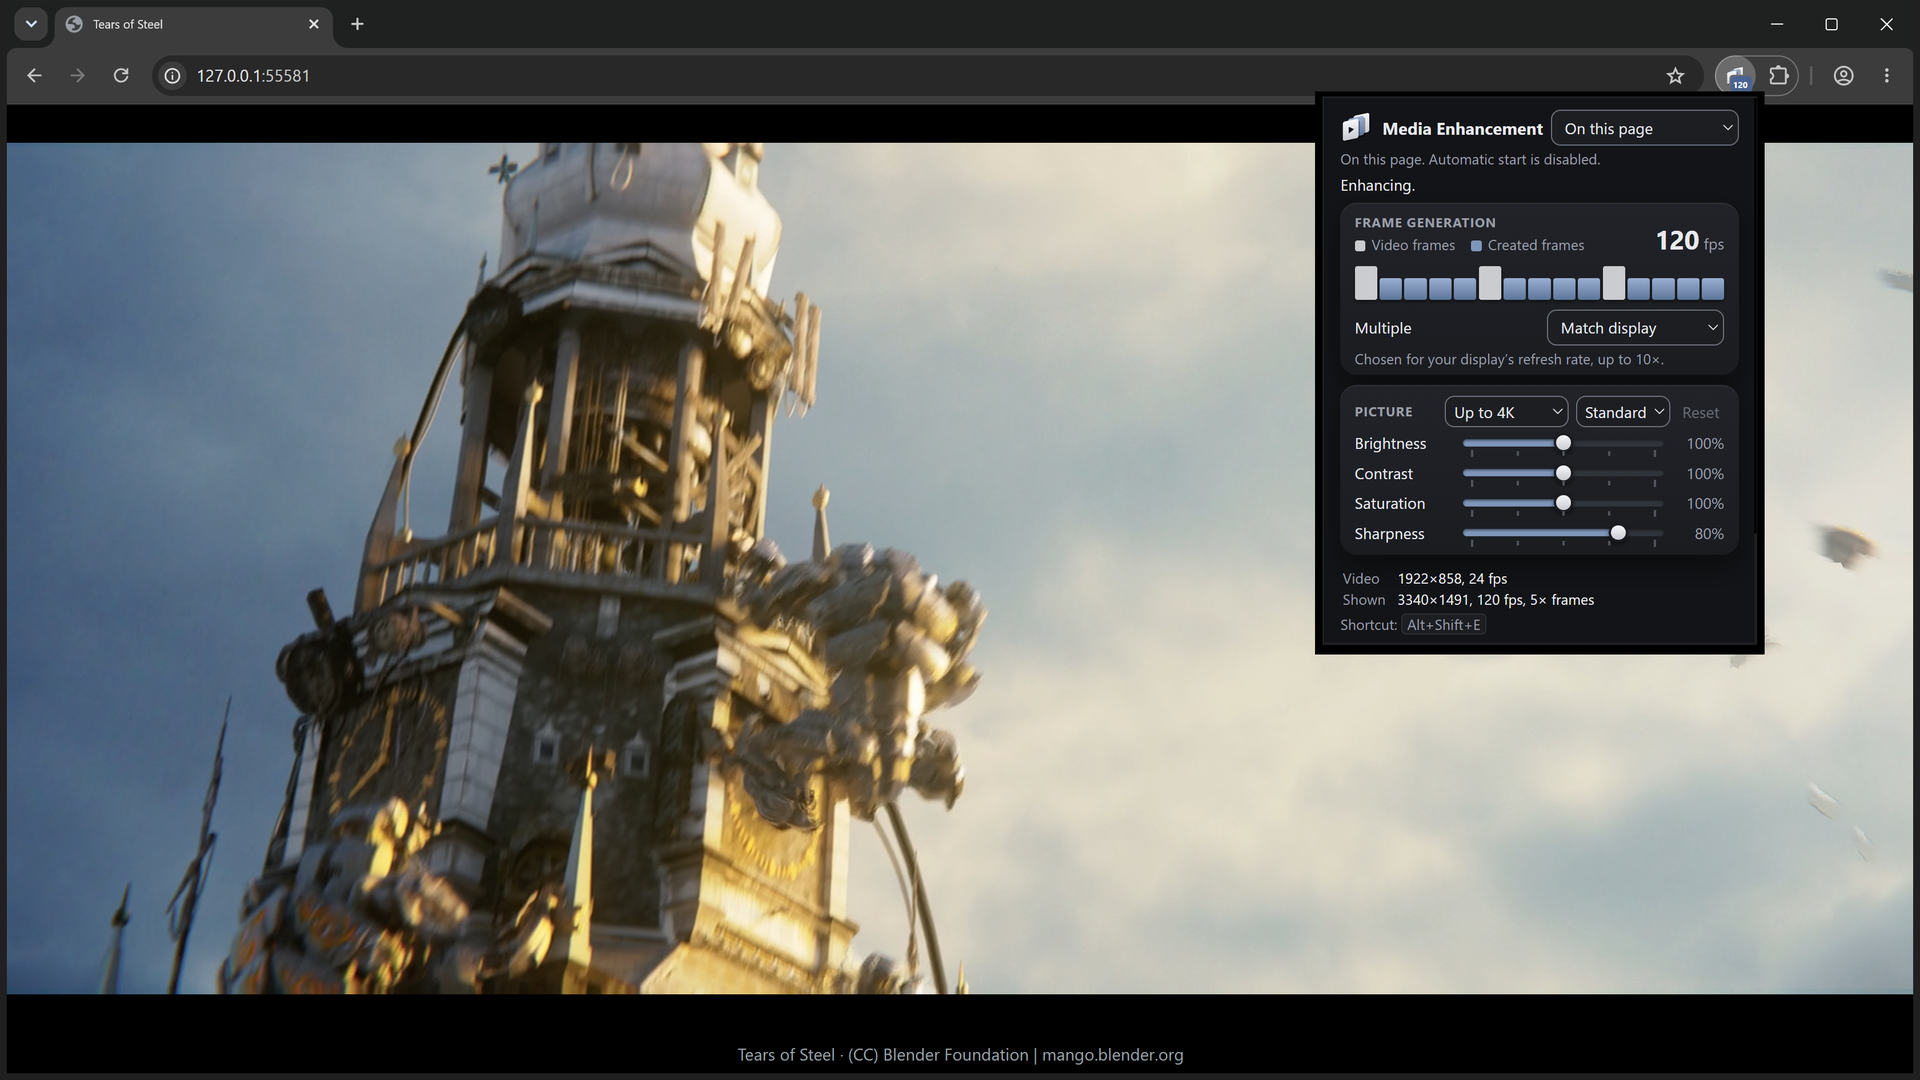
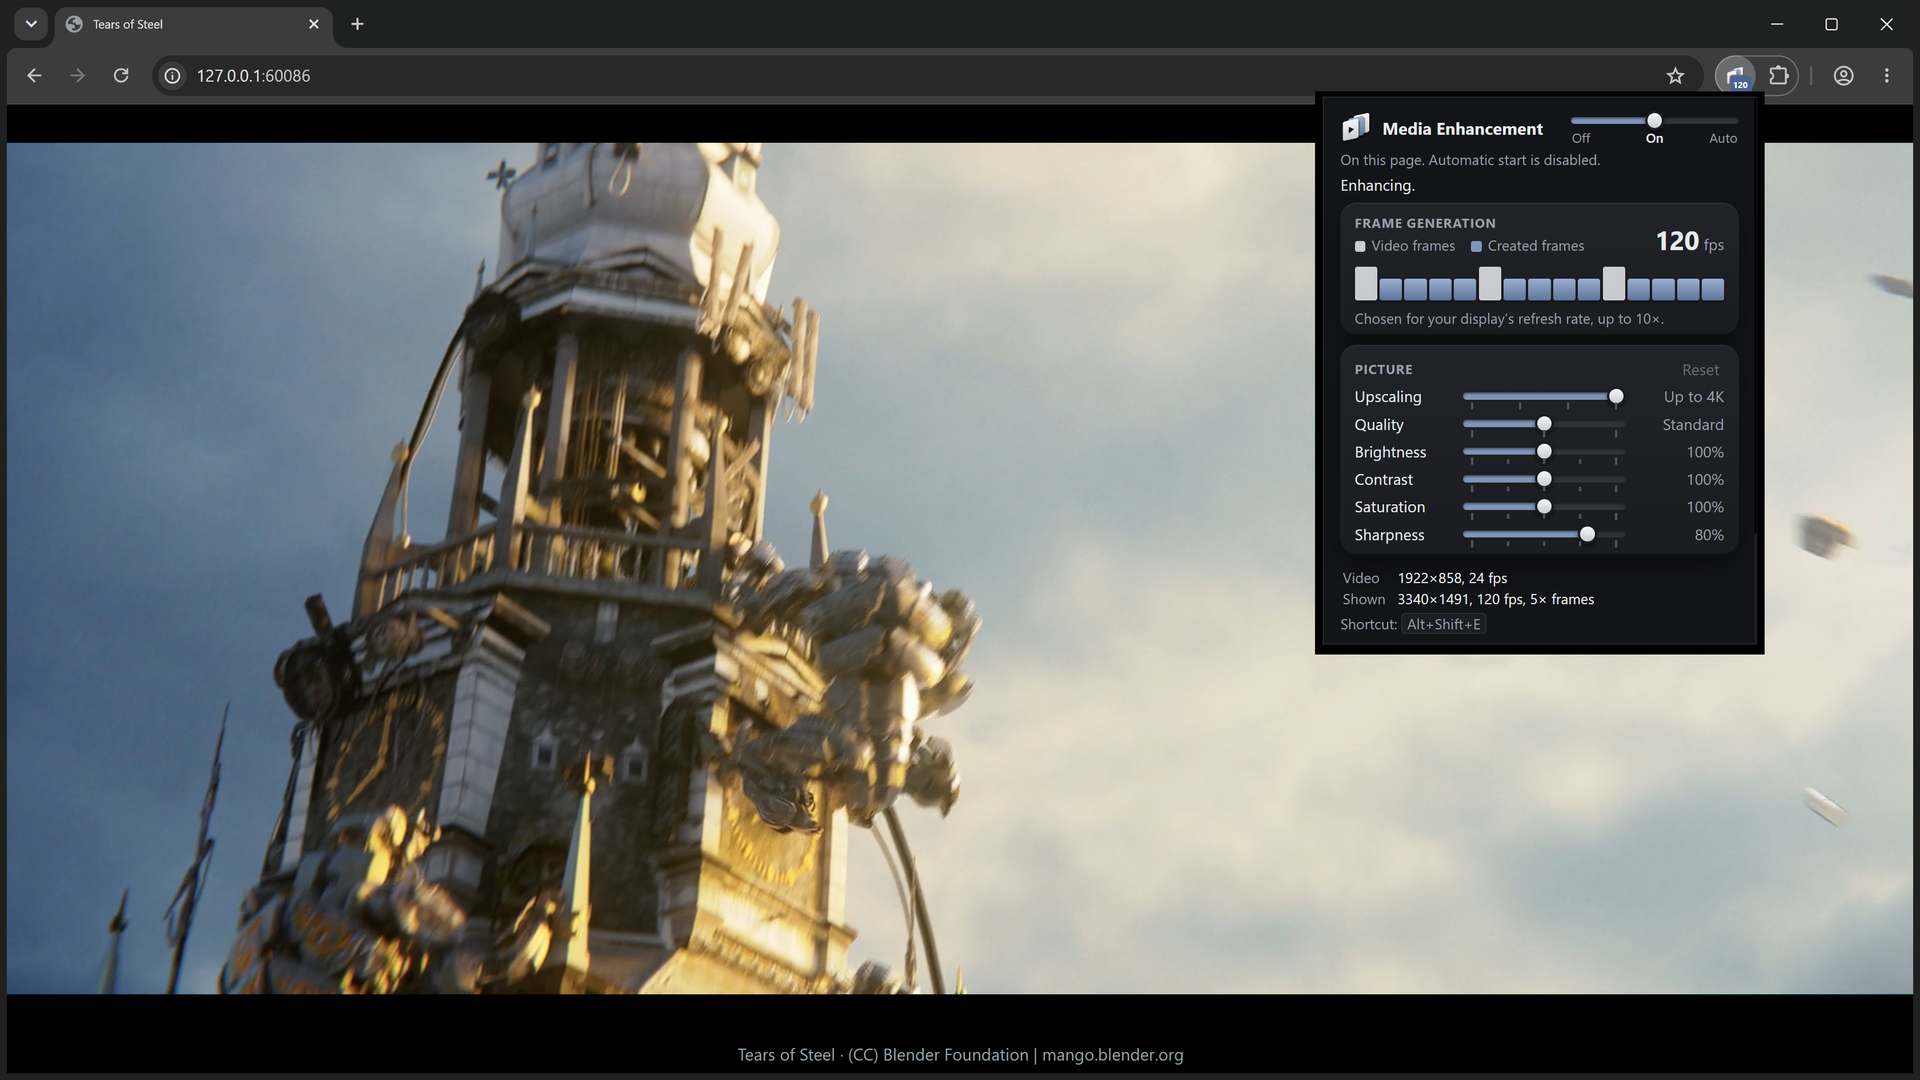
README: 1.6.2 - the status names what holds frame generation back, Setup 1.6.2 and converter 0.6.8, pictures of the extension's slider popup
Claude-Session: https://claude.ai/code/session_01Af5hEsQram3B9KX5UcWWQt

diff --git a/README.md b/README.md
@@ -25,7 +25,7 @@ Media Enhancement is an independent project. It is not affiliated with, sponsore
 
 All are in the [latest release](../../releases/latest), whose notes list the SHA-256 checksums.
 
-- **For MPC-HC:** the installer, `Media-Enhancement-Setup-1.6.1.exe`. It can also install the converter (an option in Setup). See [Converter](#converter).
+- **For MPC-HC:** the installer, `Media-Enhancement-Setup-1.6.2.exe`. It can also install the converter (an option in Setup). See [Converter](#converter).
 - **For Chrome, Edge, Brave and Firefox:** the extension. For Chrome, Edge and Brave it is `Media-Enhancement-Browser-1.5.1-Chrome-Edge-Brave.zip`. For Firefox, install it from [Firefox Add-ons](https://addons.mozilla.org/firefox/addon/media-enhancement/) (version 1.5.1, reviewed by Mozilla). See [Browser extension](#browser-extension).
 
 ## Requirements
@@ -54,7 +54,7 @@ The settings can be changed in three places. They all change the same settings, 
 
 <img src="docs/images/settings-panel.png" alt="The settings panel, which Properties opens from the menu" width="562">
 
-The panel's status box shows live figures while a video plays. The pictures of the control center and the settings panel were taken with version 1.5.8 with no video playing, so the status box is empty. They show the Movie profile with its default levels and frame generation at 4×.
+The panel's status box shows live figures while a video plays. The pictures of the control center and the settings panel were taken with version 1.5.8 with no video playing, so the status box is empty. They show the Movie profile with its default levels and frame generation at 4×. Version 1.6.2 arranges the control center differently: the player line and Open video are in its header, and the status card has a bar for the GPU time.
 
 ## Features
 
@@ -77,6 +77,7 @@ The panel's status box shows live figures while a video plays. The pictures of t
   - It greys out settings that have no effect on your display.
   - It marks a choice that would lower frame generation with the rate it lowers to (for example "→ 3×"), and a choice that is too slow on your PC.
   - **You can switch it off** (Adjust to the GPU automatically, in the menu's Frame generation branch, the settings panel's GPU group and the control center's GPU box). The frame generation multiple, the generation quality and the picture levels then play exactly as you chose them, for example Medium at 6×, also when the filter's cost estimate says they will not fit; generated frames that would come late are left out instead. A fixed multiple still stops at what the display can show.
+- **The status says what holds frame generation back:** when the display, the GPU budget or the renderer limits the generated frames, when late frames lowered them, or while the model is still loading, the status line names it, for example "no frame generation: display limit (60 Hz)". It shows in the control center, the settings panel and the MPC-HC menu.
 - **On/off hotkey:** turns the enhancement off and on while the video plays, so you can compare. The key is Ctrl+Shift+E. If another program uses it, the key is Ctrl+Alt+E. The menu and the On/off hotkey switch show the key in use.
 - **Direct GPU output** (on by default): with MPC Video Renderer in its D3D11 mode, the filter hands its frames over as GPU textures, without a copy through system memory.
 - **Experimental options**, off by default: Enhance HDR video and native D3D11 decoding.
@@ -108,7 +109,7 @@ It runs on your graphics card through WebGPU, inside the page. It does not use M
 
 ![The extension's popup over a video playing in Chrome](docs/images/extension.png)
 
-The pictures were taken with version 1.4.9. The popup:
+The pictures were taken with version 1.5.0, which has the same popup as 1.5.1. The popup:
 
 <img src="docs/images/extension-popup.png" alt="The extension's popup" width="360">
 
@@ -172,9 +173,9 @@ A preview. It converts a video file to a new file with the same enhancements (up
 
 ![Split view with the divider between the original and the enhanced picture](docs/images/converter-split.png)
 
-- Install it with Setup 1.6.1: tick the Media Enhancement Converter option. It gets its own Start-menu shortcut. The original files are not changed.
+- Install it with Setup 1.6.2: tick the Media Enhancement Converter option. It gets its own Start-menu shortcut. The original files are not changed.
 - `MediaEnhancementConvert.exe` in the converter's folder is the same engine for the command line.
-- Tested: the engine's 20-case suite on an RTX 5060 with a 120 Hz display (version 0.6.7) and on an RTX 4070 Laptop GPU with a 240 Hz display (version 0.6.0). The pictures show version 0.6.3.
+- Tested: the engine's 20-case suite on an RTX 5060 with a 120 Hz display (version 0.6.8) and on an RTX 4070 Laptop GPU with a 240 Hz display (version 0.6.0). The pictures show version 0.6.3; since 0.6.8 the window is wider and has its settings in two columns.
 - It includes FFmpeg 9.0 libraries (LGPL version 3, unchanged).
 
 ## Licence
